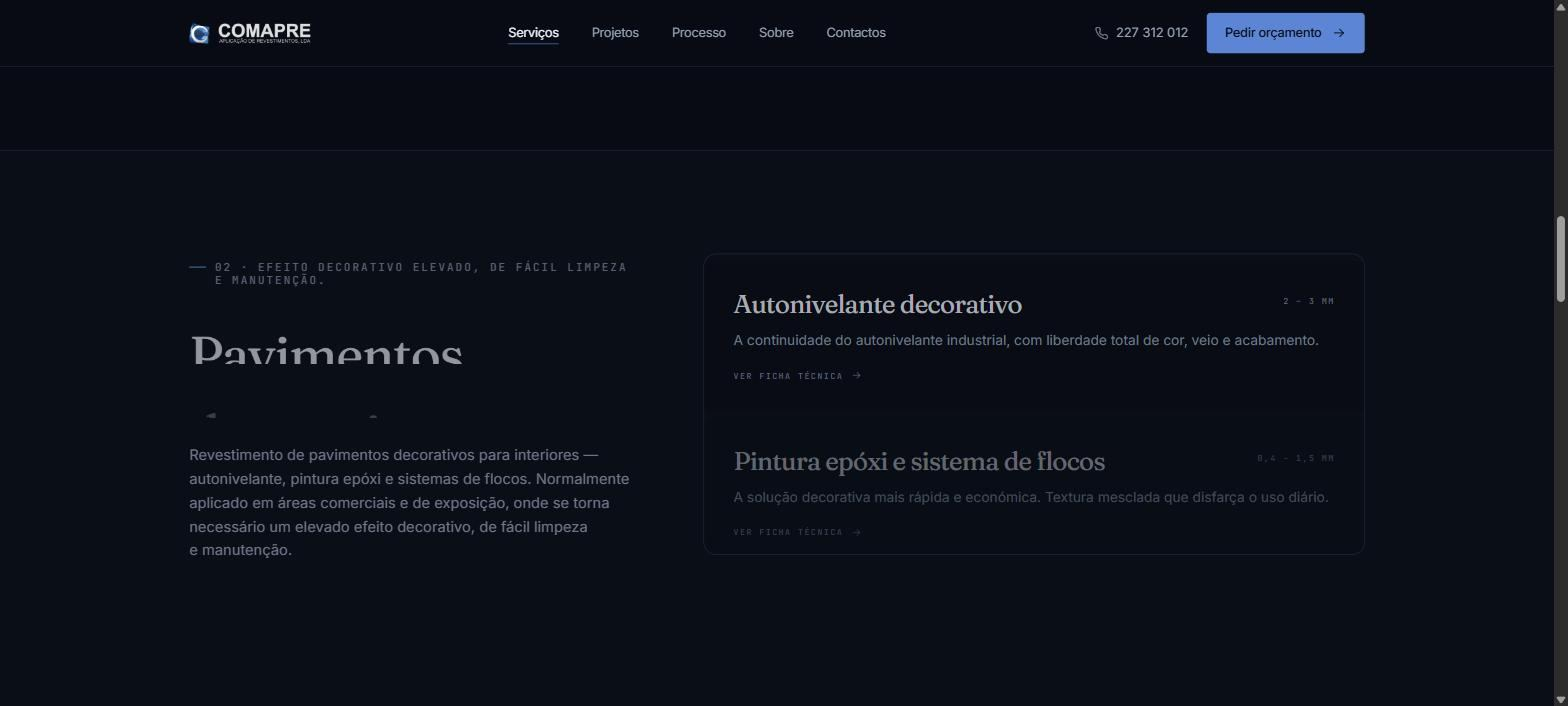
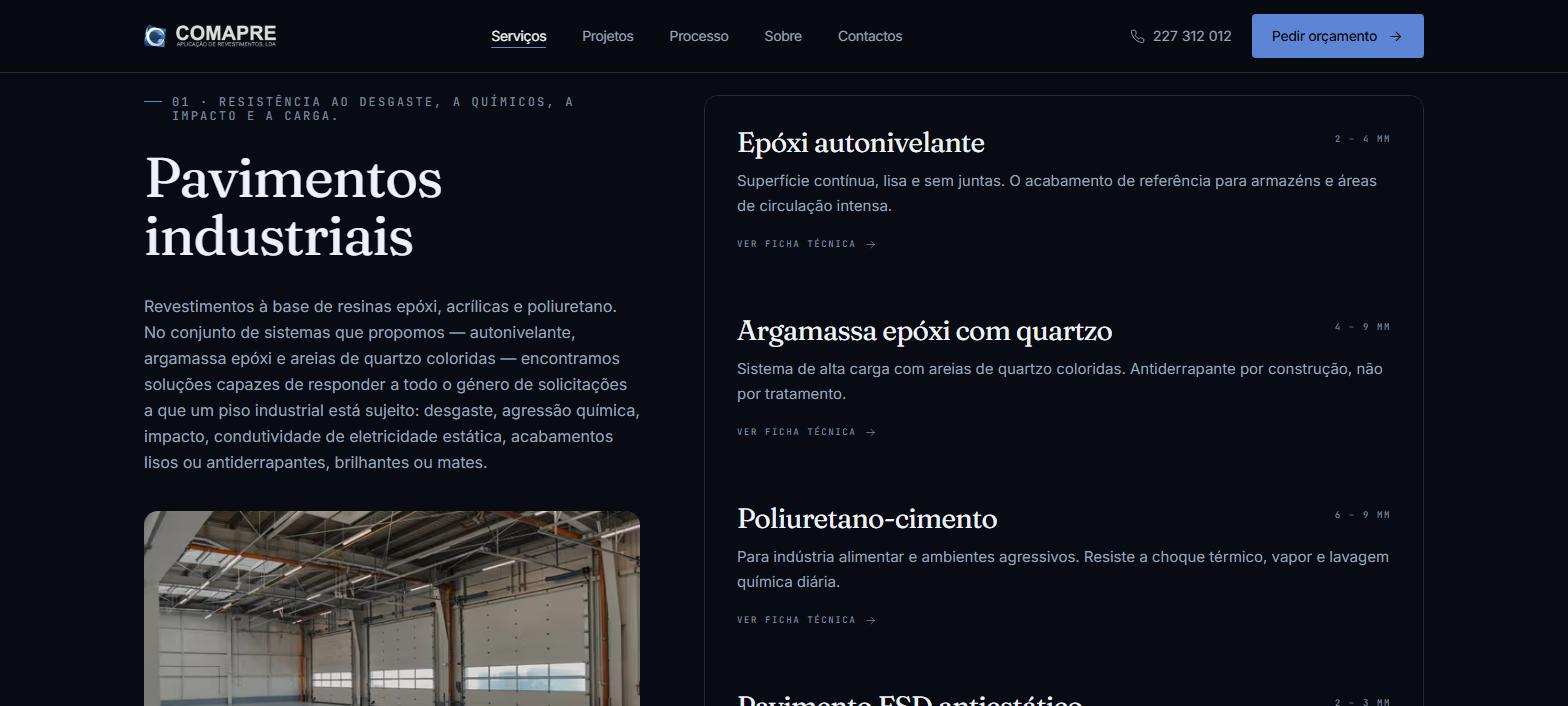
Recapture Comapre screenshots with animations settled
The originals were taken mid-animation: headlines were clipped part-way
through their reveal, and two shots caught the mouse cursor. Sections
below the fold animate on scroll, so a plain headless capture never
fires them -- these were retaken by driving Chrome over the DevTools
protocol, scrolling the page for real before capturing.

- 01-hero: full headline instead of a half-drawn one
- 02-servicos: reframed onto the systems list the caption describes
- 04-orcamento: same framing, without the cursor
- 06-cta: full headline, no longer clipped by the sticky nav

diff --git a/case-comapre.html b/case-comapre.html
@@ -109,7 +109,7 @@ ul.dec li b{color:var(--text);font-weight:500}
 <section class="wrap">
   <figure class="shot rv">
     <div class="chrome"><i></i><i></i><i></i><span>comapre.com</span></div>
-    <img src="assets/comapre/01-hero.jpg" alt="Comapre homepage: a warehouse interior behind the headline Revestimentos que aguentam">
+    <img src="assets/comapre/01-hero.jpg" alt="Comapre homepage: a warehouse interior behind the headline Revestimentos que aguentam o que o espaço exige">
     <figcaption class="cap"><b>The homepage.</b> A photograph of a real warehouse floor, dimmed almost
     to black, with a high-contrast serif over it. The headline sets out the only promise
     that matters in this trade: coatings that hold.</figcaption>
